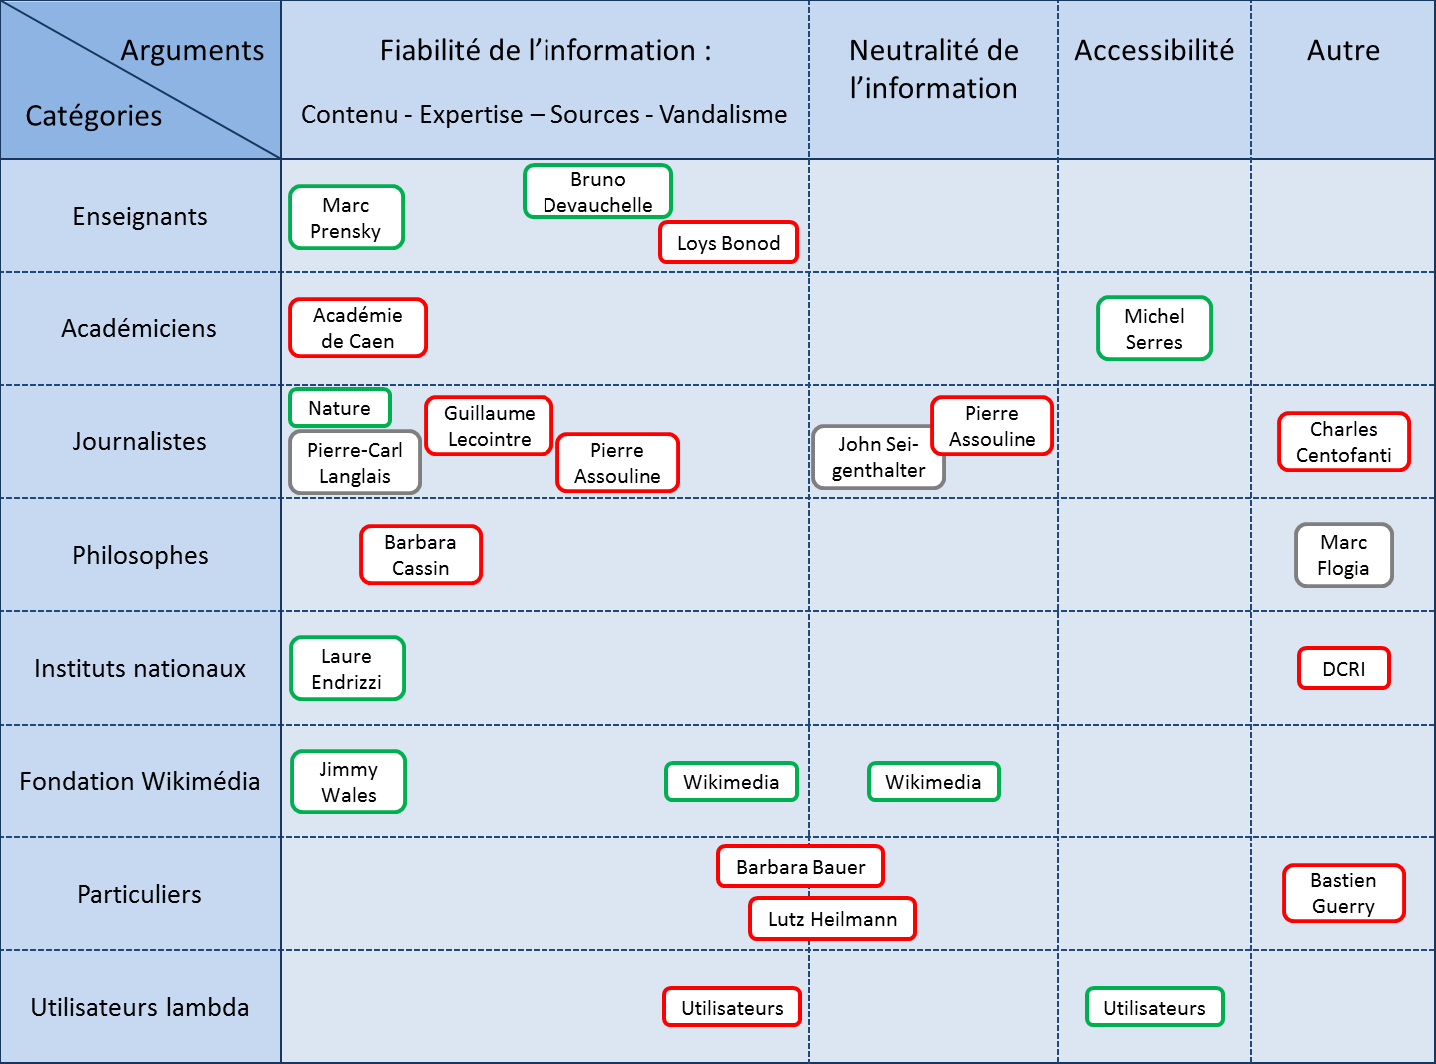
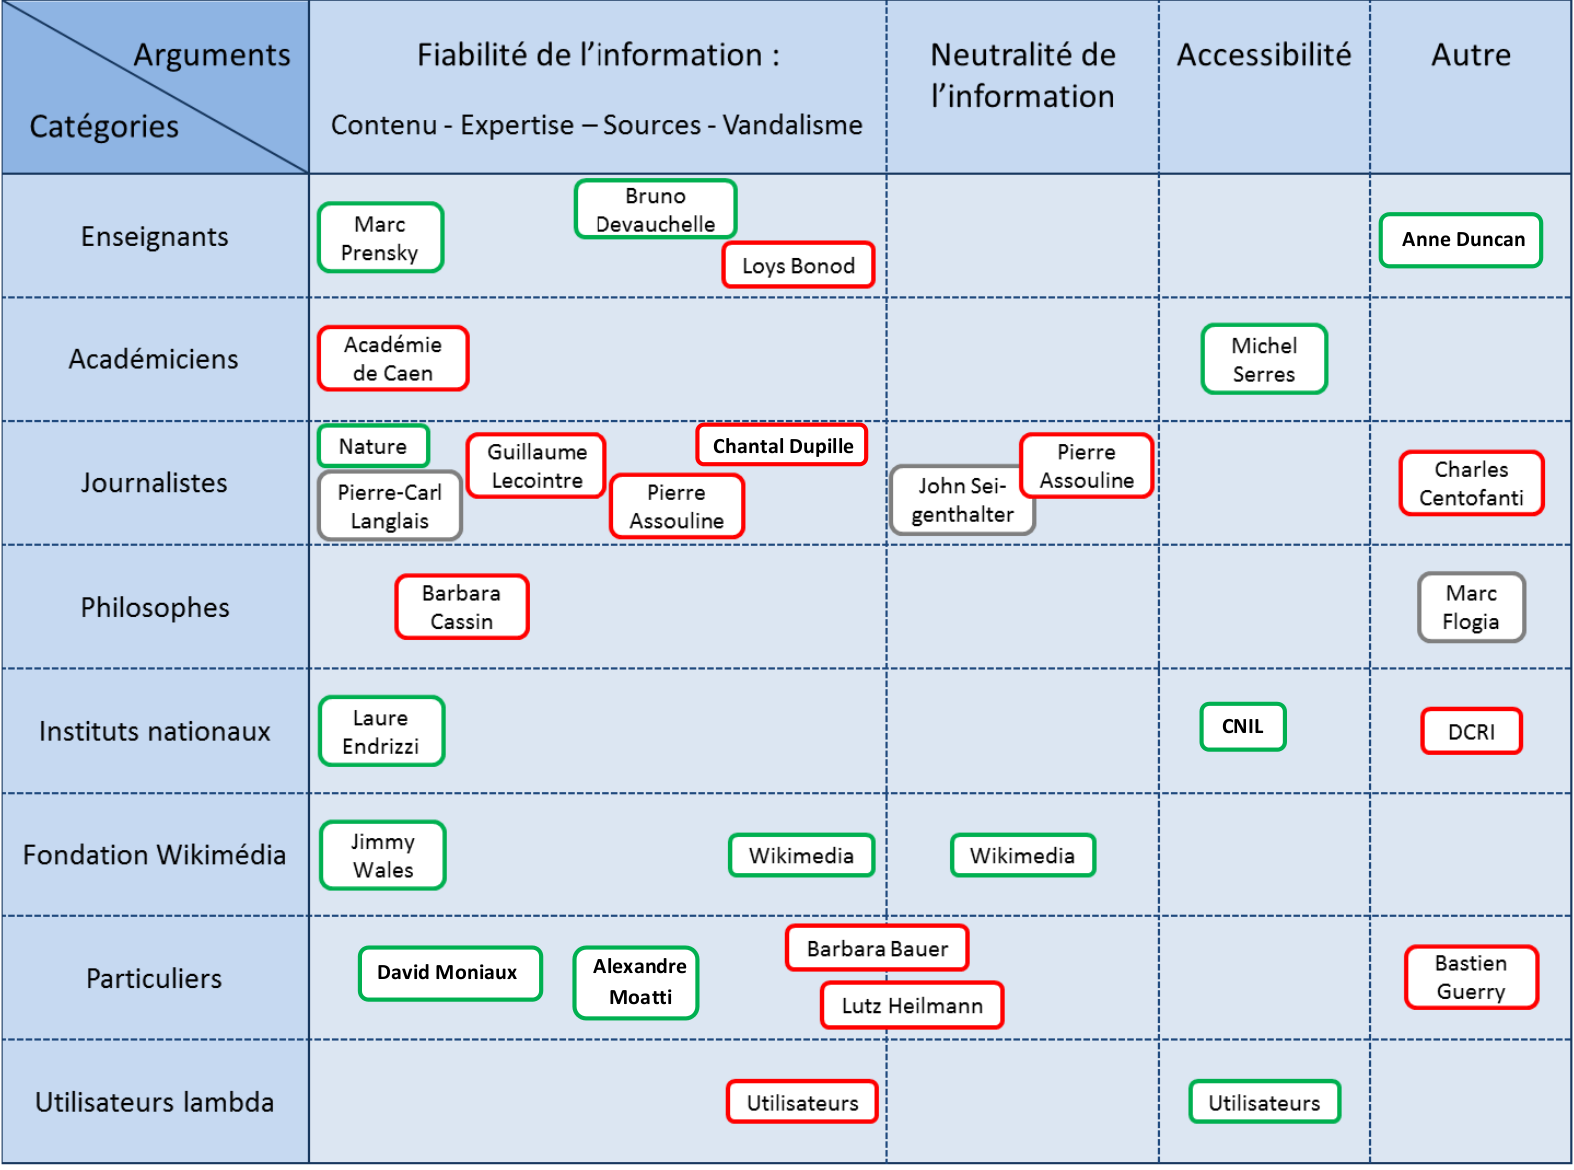
ajout d'acteur

diff --git a/carte.html b/carte.html
@@ -47,7 +47,8 @@
 
         <div class="bloc-text" id="help">
             <p>
-            Passer la souris sur un acteur pour voir son discours.
+            Passer la souris sur un acteur pour voir son discours. <br />
+            Cliquez pour accéder à la source.
             </p>
           </div>
 
@@ -55,7 +56,7 @@
                                puce pour pouvoir le faire 
                                apparaitre-->
           <div class="puce" id="mark">
-            
+            <a href="http://rslnmag.fr/jeunesse/marc-prensky-des-171-digital-natives-187-a-la-171-sagesse-numerique-187/" target="_blank"></a>
           </div>
 
           <div class="bloc-text">
@@ -67,7 +68,7 @@
           </div>
 
           <div class="puce" id="bruno">
-            
+            <a href="http://www.vousnousils.fr/2012/11/30/wikipedia-80-des-enseignants-ne-sont-pas-outilles-pour-rechercher-des-savoirs-sur-internet-538122" target="_blank"></a>
           </div>
 
           <div class="bloc-text">
@@ -78,17 +79,17 @@
             </p>
           </div>
 
-          <!-- a href="http://rue89.nouvelobs.com/2012/03/22/jai-piege-le-net-pour-donner-une-lecon-mes-eleves-230452" target="_blank" -->
-            <div class="puce" id="loys"></div>
+          <div class="puce" id="loys">
+            <a href="http://rue89.nouvelobs.com/2012/03/22/jai-piege-le-net-pour-donner-une-lecon-mes-eleves-230452" target="_blank"></a>
+          </div>
           
-
           <div class="bloc-text">
             <h2>Loys Bonod (professeur de français):</h2>
             <p>Il explique dans « Comment j’ai pourri le web » comment il s’y est pris pour introduire de fausses informations sur Wikipédia, et ainsi piéger ses élèves. Il n’est pas opposé à Wikipédia, mais voulait démontrer à ses élèves qu’il faut se méfier des informations trouvées sur internet et faire preuve d’esprit critique en utilisant des outils comme Wikipédia.</p>
           </div>
 
           <div class="puce" id="caen">
-            
+            <a href="http://wikipedia.un.mythe.over-blog.com/tag/wikipedia%20non%20fiable%20:%20avis%20unanime/6" target="_blank"></a>
           </div>
 
           <div class="bloc-text">
@@ -97,7 +98,7 @@
           </div>
 
           <div class="puce" id="michel">
-            
+            <a href="http://framablog.org/2007/02/27/wikipedia/" target="_blank"></a>
           </div>
 
           <div class="bloc-text">
@@ -108,7 +109,7 @@
           </div>
 
           <div class="puce" id="nature">
-            
+            <a href="http://www.nature.com/nature/journal/v438/n7070/full/438900a.html" target="_blank"></a>
           </div>
 
           <div class="bloc-text">
@@ -117,7 +118,7 @@
           </div>
 
           <div class="puce" id="pierre">
-            
+            <a href="http://rue89.nouvelobs.com/blog/les-coulisses-de-wikipedia/2014/06/03/etude-choc-sur-la-fiabilite-de-wikipedia-90-des-journalistes-se-sont-trompes-233039" target="_blank"></a>
           </div>
 
           <div class="bloc-text">
@@ -128,7 +129,7 @@
           </div>
 
           <div class="puce" id="guillaume">
-            
+            <a href="https://books.google.fr/books?id=accWCwAAQBAJ&pg=PT119&lpg=PT119&dq=wikipedia+Caractere+verbeux+et+anecdotique&source=bl&ots=Cee_IKP7Hr&sig=van3N0gJm6mpEHDKfqCYk935nic&hl=fr&sa=X&ved=0ahUKEwjCpcb8zvXMAhWEiCwKHdcCAJgQ6AEIKTAC#v=onepage&q=wikipedia%20Caractere%20verbeux%20et%20anecdotique&f=false" target="_blank"></a>
           </div>
 
           <div class="bloc-text">
@@ -137,7 +138,7 @@
           </div>
 
           <div class="puce" id="assouline">
-            
+            <a href="https://books.google.fr/books?id=uRTNAQAAQBAJ&pg=PT46&lpg=PT46&dq=Barbara+Cassin+wikipedia+le+savoir+ne+peut+etre+cr%C3%A9%C3%A9+par+tous&source=bl&ots=0x-lgcBG4S&sig=GJGgudtRyEkFv_Ne1Ze7lZZlNug&hl=fr&sa=X&ved=0ahUKEwjwtY_Fwr3MAhXL2BoKHWUcDYkQ6AEIUjAJ#v=onepage&q=Barbara%20Cassin%20wikipedia%20le%20savoir%20ne%20peut%20etre%20cr%C3%A9%C3%A9%20par%20tous&f=false" target="_blank"></a>
           </div>
 
           <div class="bloc-text">
@@ -150,7 +151,7 @@
           </div>
 
           <div class="puce" id="john">
-            
+            <a href="http://www.zdnet.fr/actualites/wikipedia-fragilisee-par-son-systeme-collaboratif-39293524.htm" target="_blank"></a>
           </div>
 
           <div class="bloc-text">
@@ -159,7 +160,7 @@
           </div>
 
           <div class="puce" id="assouline2">
-            
+            <a href="http://sur-wikipedia.over-blog.com/pages/La_Revolution_Wikipedia_la_preface_de_Pierre_Assouline-6899893.html" target="_blank"></a>
           </div>
 
           <div class="bloc-text">
@@ -168,7 +169,6 @@
           </div>
 
           <div class="puce" id="charles">
-            
           </div>
 
           <div class="bloc-text">
@@ -177,7 +177,7 @@
           </div>
 
           <div class="puce" id="barbara">
-            
+            <a href="https://books.google.fr/books?id=uRTNAQAAQBAJ&pg=PT46&lpg=PT46&dq=Barbara+Cassin+wikipedia+le+savoir+ne+peut+etre+cr%C3%A9%C3%A9+par+tous&source=bl&ots=0x-lgcBG4S&sig=GJGgudtRyEkFv_Ne1Ze7lZZlNug&hl=fr&sa=X&ved=0ahUKEwjwtY_Fwr3MAhXL2BoKHWUcDYkQ6AEIUjAJ#v=onepage&q=Barbara%20Cassin%20wikipedia%20le%20savoir%20ne%20peut%20etre%20cr%C3%A9%C3%A9%20par%20tous&f=false" target="_blank"></a>
           </div>
 
           <div class="bloc-text">
@@ -186,7 +186,7 @@
           </div>
 
           <div class="puce" id="marc">
-            
+            <a href="https://books.google.fr/books?id=l-IAAz91zysC&pg=PA223&lpg=PA223&dq=Barbara+Cassin+contre+wikipedia&source=bl&ots=51X3G47QkL&sig=yvFcogw8VD0Uw_7gUtJMcz7FP_8&hl=fr&sa=X&ved=0ahUKEwjrq7z4vr3MAhUFCBoKHRaVAawQ6AEIRDAF#v=onepage&q=Barbara%20Cassin%20contre%20wikipedia&f=false" target="_blank"></a>
           </div>
 
           <div class="bloc-text">
@@ -195,7 +195,7 @@
           </div>
 
           <div class="puce" id="laure">
-            
+            <a href="http://laure-endrizzi.net/?p=179" target="_blank"></a>
           </div>
 
           <div class="bloc-text">
@@ -206,7 +206,7 @@
           </div>
 
           <div class="puce" id="DCRI">
-            
+            <a href="http://www.nextinpact.com/news/78881-affaire-dcri-contre-wikipedia-interview-juriste-cedric-manara.htm" target="_blank"></a>
           </div>
 
           <div class="bloc-text">
@@ -215,7 +215,7 @@
           </div>
 
           <div class="puce" id="jimmy">
-            
+            <a href="http://www.zdnet.fr/actualites/wikipedia-presque-aussi-fiable-que-britannica-39296098.htm" target="_blank"></a>
           </div>
 
           <div class="bloc-text">
@@ -224,7 +224,7 @@
           </div>
 
           <div class="puce" id="wikimedia">
-            
+            <a href="https://wikimediafoundation.org/wiki/Audit_Committee_charter" target="_blank"></a>
           </div>
 
           <div class="bloc-text">
@@ -233,7 +233,7 @@
           </div>
 
           <div class="puce" id="wikimedia2">
-            
+            <a href="https://wikimediafoundation.org/wiki/Audit_Committee_charter" target="_blank"></a>
           </div>
 
           <div class="bloc-text">
@@ -242,7 +242,7 @@
           </div>
 
           <div class="puce" id="bauer">
-            
+            <a href="http://arstechnica.com/tech-policy/2008/08/judge-puts-defamation-lawsuit-against-wikipedia-to-the-sword/" target="_blank"></a>
           </div>
 
           <div class="bloc-text">
@@ -251,7 +251,7 @@
           </div>
 
           <div class="puce" id="lutz">
-              
+            <a href="https://en.wikipedia.org/wiki/Lutz_Heilmann#Lawsuit_against_Wikimedia_Deutschland" target="_blank"></a>
           </div>
 
           <div class="bloc-text">
@@ -260,7 +260,7 @@
           </div>
 
           <div class="puce" id="bastien">
-              
+            <a href="https://bzg.fr/donner-a-wikipedia-vraiment.html" target="_blank"></a>
           </div>
 
           <div class="bloc-text">
@@ -270,7 +270,7 @@
           </div>
 
           <div class="puce" id="utilisateur">
-              
+            <a href="http://www.lespritsorcier.org/blogs-membres/wikipedia-une-fausse-encyclopedie/" target="_blank"></a>
           </div>
 
           <div class="bloc-text">
@@ -282,12 +282,57 @@
           </div>
 
           <div class="puce" id="utilisateur2">
-              
+            <a href="https://www.youtube.com/channel/UCZBl7JF_ldmpbN4VuOpHLeA" target="_blank"></a>  
           </div>
 
           <div class="bloc-text">
            <h2>Utilisateurs Lambda :</h2>
            <p>Ils apprécient la rapidité des recherches, la gratuité de l’information, la possibilité de contribuer et la présence de sujets pointus sur Wikipédia.</p>
+          </div>
+
+          <div class="puce" id="moniaux">
+            <a href="http://david.monniaux.free.fr/dotclear/index.php/" target="_blank"></a>  
+          </div>
+
+          <div class="bloc-text">
+           <h2>David Monniaux (administrateur) :</h2>
+           <p>Grand defenseur de Wikipedia, administrateur, il a par exemple pris la décision de bloquer en écriture Science Politique, durant quelques semaines, suite aux vandalismes commis par ses étudiants.</p>
+          </div>
+
+          <div class="puce" id="CNIL">
+            <a href="http://www.vie-publique.fr/acteurs/commission-nationale-informatique-libertes-cnil.html" target="_blank"></a>  
+          </div>
+
+          <div class="bloc-text">
+           <h2>CNIL (Commission nationale de l'informatique et des libertés) :</h2>
+           <p>Grand defenseur de Wikipedia</p>
+          </div>
+
+          <div class="puce" id="dupille">
+            <a href="http://chantaldupille.over-blog.com/article-wikipedia-n-est-pas-une-encyclopedie-mais-une-imposture-108580542.html" target="_blank"></a>  
+          </div>
+
+          <div class="bloc-text">
+           <h2>Chantal Dupille (journaliste et écrivain) :</h2>
+           <p>Wikipedia n'est absolument pas une encyclopédie mais une base de données fourre-tout et alétoire, aux millions d'erreurs, et truffée de propagande.</p>
+          </div>
+
+          <div class="puce" id="moatti">
+            <a href="http://www.bibnum.eu/tag/wikipedia/" target="_blank"></a>  
+          </div>
+
+          <div class="bloc-text">
+           <h2>Alexandre Moatti (scientifique et écrivain) :</h2>
+           <p>Postures d'opposition à Wikipédia en milieu intellectuel: Wikipedia un projet qui rend optimiste et a de l’avenir, c'est un "humanisme numérique". Cependant les manies et marottes internes à Wikipedia devraient aussi être un objet de recherches.</p>
+          </div>
+
+           <div class="puce" id="duncan">
+            <a href="http://etudiant.lefigaro.fr/le-labeducation/actualite/detail/article/wikipedia-le-nouveau-manuel-scolaire-mondial-392/" target="_blank"></a>  
+          </div>
+
+          <div class="bloc-text">
+           <h2>Anne Duncan (Ministre de l’éducation des États-Unis) :</h2>
+           <p>Les manuels scolaires sont «obsolètes» et le passage au digital nécessaire.</p>
           </div>
 
         </div>

diff --git a/style.css b/style.css
@@ -2238,7 +2238,7 @@ div .bloc-text{
 	width: 30%;
 	text-align: center;
 	position: absolute;
-	bottom: 300px;
+	bottom: 290px;
 	left: 750px;
 	display: block;
 }
@@ -2507,6 +2507,67 @@ div .bloc-text{
 	opacity: 0;
 }
 
+#moniaux{
+	width: 83px;
+	height: 23px;
+	background-color: white;
+	border: 2px solid purple;
+	position: absolute;
+	bottom: 77px;
+	left: 162px;
+	opacity: 0;
+}
+
+#moatti{
+	width: 53px;
+	height: 30px;
+	background-color: white;
+	border: 2px solid purple;
+	position: absolute;
+	bottom: 69px;
+	left: 263px;
+	opacity: 0;
+}
+
+#CNIL{
+	width: 41px;
+	height: 20px;
+	background-color: white;
+	border: 2px solid purple;
+	position: absolute;
+	bottom: 190px;
+	left: 543px;
+	opacity: 0;
+}
+
+#duncan{
+	width: 72px;
+	height: 22px;
+	background-color: white;
+	border: 2px solid purple;
+	position: absolute;
+	bottom: 411px;
+	left: 630px;
+	opacity: 0;
+}
+
+#dupille{
+	width: 80px;
+	height: 19px;
+	background-color: white;
+	border: 2px solid purple;
+	position: absolute;
+	bottom: 320px;
+	left: 313px;
+	opacity: 0;
+}
+
 div .puce:hover + .bloc-text{
 	display: block;
+}
+
+div .puce a{
+	position: inherit;
+	width: inherit;
+	height: inherit;
 }
